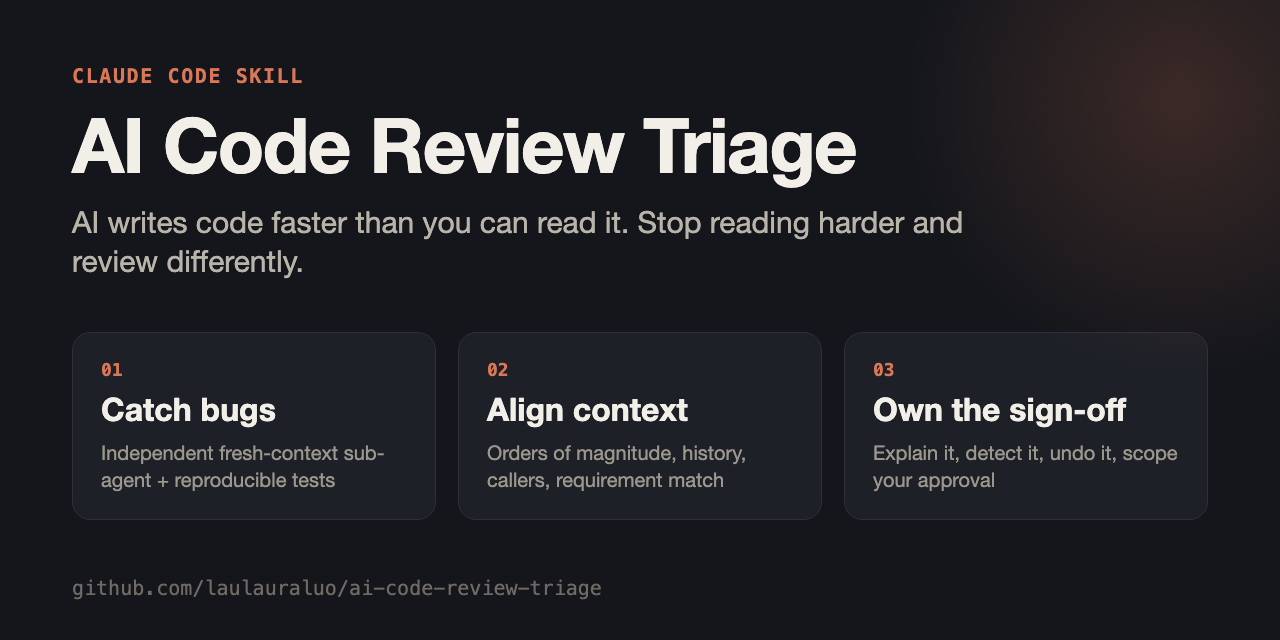
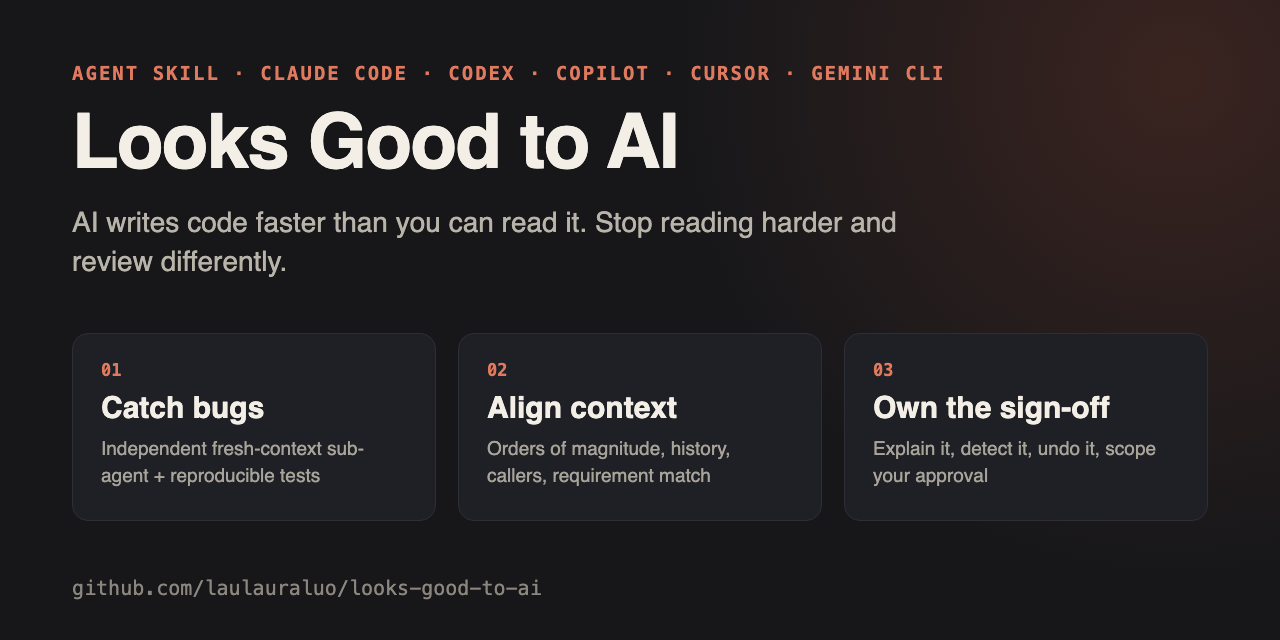
Rename to Looks Good to AI
The repository, skill, plugin and Gemini extension become
looks-good-to-ai, and every install command uses the new name.
Version 2.0.0, since installs under the old name must be redone.

diff --git a/scripts/check.py b/scripts/check.py
@@ -4,7 +4,7 @@ import json, pathlib, re, subprocess, sys
 root = pathlib.Path(__file__).resolve().parent.parent
 errors = []
 
-skill = root / "skills/ai-code-review-triage/SKILL.md"
+skill = root / "skills/looks-good-to-ai/SKILL.md"
 m = re.match(r"---\n(.*?)\n---\n", skill.read_text(), re.S)
 fm = dict(line.split(": ", 1) for line in m.group(1).splitlines()) if m else {}
 name, desc = fm.get("name", ""), fm.get("description", "")

diff --git a/docs/agents.md b/docs/agents.md
@@ -1,17 +1,17 @@
 # Install and use in each agent
 
-AI Code Review Triage is an [Agent Skill](https://agentskills.io/specification): a folder, `skills/ai-code-review-triage/`, with a `SKILL.md` at its root. Every agent below loads that folder as is. Nothing is rewritten per agent; only the install path and the way you call it differ.
+Looks Good to AI is an [Agent Skill](https://agentskills.io/specification): a folder, `skills/looks-good-to-ai/`, with a `SKILL.md` at its root. Every agent below loads that folder as is. Nothing is rewritten per agent; only the install path and the way you call it differ.
 
-Paths were checked against each agent's own documentation on 2026-11-15. Agents change these quickly. If a path here disagrees with the linked page, the page wins, and an [issue](https://github.com/laulauraluo/ai-code-review-triage/issues/new?template=bug_report.yml) is welcome.
+Paths were checked against each agent's own documentation on 2026-11-15. Agents change these quickly. If a path here disagrees with the linked page, the page wins, and an [issue](https://github.com/laulauraluo/looks-good-to-ai/issues/new?template=bug_report.yml) is welcome.
 
 ## The fast way: the skills CLI
 
-The [`skills`](https://github.com/vercel-labs/skills) CLI finds `skills/ai-code-review-triage/SKILL.md` in this repository and copies it to the right folder for the agents you pick:
+The [`skills`](https://github.com/vercel-labs/skills) CLI finds `skills/looks-good-to-ai/SKILL.md` in this repository and copies it to the right folder for the agents you pick:
 
 ```sh
-npx skills add laulauraluo/ai-code-review-triage           # this project, asks which agents
-npx skills add laulauraluo/ai-code-review-triage -g        # for your user
-npx skills add laulauraluo/ai-code-review-triage -g -a codex -a cursor
+npx skills add laulauraluo/looks-good-to-ai           # this project, asks which agents
+npx skills add laulauraluo/looks-good-to-ai -g        # for your user
+npx skills add laulauraluo/looks-good-to-ai -g -a codex -a cursor
 ```
 
 The `-a` ids are in the table below and in the CLI's [agent list](https://github.com/vercel-labs/skills/blob/main/docs/agents.md). The CLI's folders sometimes differ from the ones an agent documents first, but each agent reads the CLI's folder too.
@@ -22,40 +22,40 @@ Four agents can install the repository directly. Each command was run against th
 
 | Agent | Commands | Source |
 |---|---|---|
-| **Claude Code** | `/plugin marketplace add laulauraluo/ai-code-review-triage`, then `/plugin install ai-code-review-triage@ai-code-review-triage` | [Plugins](https://code.claude.com/docs/en/plugins) |
-| **Codex** | `codex plugin marketplace add laulauraluo/ai-code-review-triage`, then `codex plugin add ai-code-review-triage@ai-code-review-triage` | [Build plugins](https://developers.openai.com/codex/plugins/build) |
-| **GitHub Copilot CLI** | `copilot plugin marketplace add laulauraluo/ai-code-review-triage`, then `copilot plugin install ai-code-review-triage@ai-code-review-triage` | [CLI plugin reference](https://docs.github.com/en/copilot/reference/copilot-cli-reference/cli-plugin-reference) |
-| **Gemini CLI** | `gemini extensions install https://github.com/laulauraluo/ai-code-review-triage` | [Extensions](https://geminicli.com/docs/extensions/reference/) |
+| **Claude Code** | `/plugin marketplace add laulauraluo/looks-good-to-ai`, then `/plugin install looks-good-to-ai@looks-good-to-ai` | [Plugins](https://code.claude.com/docs/en/plugins) |
+| **Codex** | `codex plugin marketplace add laulauraluo/looks-good-to-ai`, then `codex plugin add looks-good-to-ai@looks-good-to-ai` | [Build plugins](https://developers.openai.com/codex/plugins/build) |
+| **GitHub Copilot CLI** | `copilot plugin marketplace add laulauraluo/looks-good-to-ai`, then `copilot plugin install looks-good-to-ai@looks-good-to-ai` | [CLI plugin reference](https://docs.github.com/en/copilot/reference/copilot-cli-reference/cli-plugin-reference) |
+| **Gemini CLI** | `gemini extensions install https://github.com/laulauraluo/looks-good-to-ai` | [Extensions](https://geminicli.com/docs/extensions/reference/) |
 
-Codex and Copilot CLI read the same `.claude-plugin/` manifests as Claude Code. Gemini CLI reads `gemini-extension.json` and finds the skill under `skills/`. Copilot CLI also accepts `copilot plugin install laulauraluo/ai-code-review-triage`, but warns that direct installs are deprecated.
+Codex and Copilot CLI read the same `.claude-plugin/` manifests as Claude Code. Gemini CLI reads `gemini-extension.json` and finds the skill under `skills/`. Copilot CLI also accepts `copilot plugin install laulauraluo/looks-good-to-ai`, but warns that direct installs are deprecated.
 
 ## By hand
 
-Copy or clone the skill folder so that `SKILL.md` ends up at `<skills folder>/ai-code-review-triage/SKILL.md`:
+Copy or clone the skill folder so that `SKILL.md` ends up at `<skills folder>/looks-good-to-ai/SKILL.md`:
 
 ```sh
-git clone https://github.com/laulauraluo/ai-code-review-triage.git /tmp/acrt
-cp -r /tmp/acrt/skills/ai-code-review-triage <skills folder>/
+git clone https://github.com/laulauraluo/looks-good-to-ai.git /tmp/acrt
+cp -r /tmp/acrt/skills/looks-good-to-ai <skills folder>/
 ```
 
 For a project install, commit the folder so your team gets it too.
 
 | Agent | `-a` id | User folder | Project folder | How to call it | Source |
 |---|---|---|---|---|---|
-| **Claude Code** | `claude-code` | `~/.claude/skills/` | `.claude/skills/` | `/ai-code-review-triage`, or just ask | [Skills](https://code.claude.com/docs/en/skills) |
-| **Codex** | `codex` | `~/.agents/skills/` | `.agents/skills/` | `$ai-code-review-triage`, `/skills`, or just ask | [Build skills](https://learn.chatgpt.com/docs/build-skills) |
-| **GitHub Copilot** (VS Code, CLI, coding agent) | `github-copilot` | `~/.copilot/skills/` or `~/.agents/skills/` | `.github/skills/`, `.agents/skills/` or `.claude/skills/` | `/ai-code-review-triage` in VS Code and the CLI; the coding agent loads it when relevant | [VS Code](https://code.visualstudio.com/docs/copilot/customization/agent-skills), [GitHub](https://docs.github.com/en/copilot/concepts/agents/about-agent-skills) |
-| **Cursor** | `cursor` | `~/.cursor/skills/` or `~/.agents/skills/` | `.cursor/skills/` or `.agents/skills/` | `/ai-code-review-triage`, or just ask | [Skills](https://cursor.com/docs/context/skills) |
+| **Claude Code** | `claude-code` | `~/.claude/skills/` | `.claude/skills/` | `/looks-good-to-ai`, or just ask | [Skills](https://code.claude.com/docs/en/skills) |
+| **Codex** | `codex` | `~/.agents/skills/` | `.agents/skills/` | `$looks-good-to-ai`, `/skills`, or just ask | [Build skills](https://learn.chatgpt.com/docs/build-skills) |
+| **GitHub Copilot** (VS Code, CLI, coding agent) | `github-copilot` | `~/.copilot/skills/` or `~/.agents/skills/` | `.github/skills/`, `.agents/skills/` or `.claude/skills/` | `/looks-good-to-ai` in VS Code and the CLI; the coding agent loads it when relevant | [VS Code](https://code.visualstudio.com/docs/copilot/customization/agent-skills), [GitHub](https://docs.github.com/en/copilot/concepts/agents/about-agent-skills) |
+| **Cursor** | `cursor` | `~/.cursor/skills/` or `~/.agents/skills/` | `.cursor/skills/` or `.agents/skills/` | `/looks-good-to-ai`, or just ask | [Skills](https://cursor.com/docs/context/skills) |
 | **Gemini CLI** | `gemini-cli` | `~/.gemini/skills/` or `~/.agents/skills/` | `.gemini/skills/` or `.agents/skills/` | Just ask; it asks to activate the skill. `/skills list` shows it | [Skills](https://geminicli.com/docs/cli/skills/) |
-| **Antigravity** | `antigravity` | `~/.gemini/config/skills/` | `.agents/skills/` | `/ai-code-review-triage`, or just ask | [Skills](https://antigravity.google/docs/skills.md) |
-| **OpenCode** | `opencode` | `~/.config/opencode/skills/` | `.opencode/skills/` (also reads `.claude/skills/`, `.agents/skills/`) | Just ask, or mention `@ai-code-review-triage` | [Skills](https://opencode.ai/docs/skills/) |
-| **Windsurf** (docs now under Devin Desktop) | `windsurf` | `~/.config/devin/skills/` or `~/.agents/skills/` | `.devin/skills/`, `.agents/skills/` or `.windsurf/skills/` | `/ai-code-review-triage`, or just ask | [Skills](https://docs.devin.ai/desktop/cascade/skills) |
-| **Cline** | `cline` | `~/.cline/skills/` | `.cline/skills/` or `.claude/skills/` | `/ai-code-review-triage`, or just ask | [Skills](https://docs.cline.bot/customization/skills) |
+| **Antigravity** | `antigravity` | `~/.gemini/config/skills/` | `.agents/skills/` | `/looks-good-to-ai`, or just ask | [Skills](https://antigravity.google/docs/skills.md) |
+| **OpenCode** | `opencode` | `~/.config/opencode/skills/` | `.opencode/skills/` (also reads `.claude/skills/`, `.agents/skills/`) | Just ask, or mention `@looks-good-to-ai` | [Skills](https://opencode.ai/docs/skills/) |
+| **Windsurf** (docs now under Devin Desktop) | `windsurf` | `~/.config/devin/skills/` or `~/.agents/skills/` | `.devin/skills/`, `.agents/skills/` or `.windsurf/skills/` | `/looks-good-to-ai`, or just ask | [Skills](https://docs.devin.ai/desktop/cascade/skills) |
+| **Cline** | `cline` | `~/.cline/skills/` | `.cline/skills/` or `.claude/skills/` | `/looks-good-to-ai`, or just ask | [Skills](https://docs.cline.bot/customization/skills) |
 | **Roo Code** | `roo` | `~/.roo/skills/` or `~/.agents/skills/` | `.roo/skills/` or `.agents/skills/` | Just ask (no slash command for skills) | [Skills](https://roocodeinc.github.io/Roo-Code/features/skills) |
-| **Kiro** | `kiro-cli` | `~/.kiro/skills/` | `.kiro/skills/` | `/ai-code-review-triage`, or just ask | [Skills](https://kiro.dev/docs/skills/) |
+| **Kiro** | `kiro-cli` | `~/.kiro/skills/` | `.kiro/skills/` | `/looks-good-to-ai`, or just ask | [Skills](https://kiro.dev/docs/skills/) |
 | **Amp** | `amp` | `~/.config/agents/skills/` or `~/.agents/skills/` | `.agents/skills/` | Just ask | [Skills](https://ampcode.com/docs/markdown/customize/skills) |
-| **Junie** | `junie` | `~/.junie/skills/` | `.junie/skills/` | `/ai-code-review-triage`, or just ask | [Skills](https://junie.jetbrains.com/docs/agent-skills.html) |
-| **Zed** | `zed` | `~/.agents/skills/` | `.agents/skills/` (trusted worktrees only) | The `/` menu, `@ai-code-review-triage`, or just ask | [Skills](https://zed.dev/docs/ai/skills) |
+| **Junie** | `junie` | `~/.junie/skills/` | `.junie/skills/` | `/looks-good-to-ai`, or just ask | [Skills](https://junie.jetbrains.com/docs/agent-skills.html) |
+| **Zed** | `zed` | `~/.agents/skills/` | `.agents/skills/` (trusted worktrees only) | The `/` menu, `@looks-good-to-ai`, or just ask | [Skills](https://zed.dev/docs/ai/skills) |
 
 Notes:
 
@@ -70,16 +70,16 @@ Notes:
 Aider has no skill loader. It reads conventions files as read-only context, so load the skill that way. Per session:
 
 ```sh
-aider --read path/to/ai-code-review-triage/SKILL.md
+aider --read path/to/looks-good-to-ai/SKILL.md
 ```
 
 Or for every session, in `.aider.conf.yml`:
 
 ```yaml
-read: [path/to/ai-code-review-triage/SKILL.md]
+read: [path/to/looks-good-to-ai/SKILL.md]
 ```
 
-Then ask: *"Review this diff with the AI code review triage workflow."* Aider has no sub-agents, so for Step 1 open a second `aider` session with only the diff and the intent. Source: [Specifying coding conventions](https://aider.chat/docs/usage/conventions.html).
+Then ask: *"Review this diff with the Looks Good to AI workflow."* Aider has no sub-agents, so for Step 1 open a second `aider` session with only the diff and the intent. Source: [Specifying coding conventions](https://aider.chat/docs/usage/conventions.html).
 
 ### Continue
 
@@ -87,15 +87,15 @@ Then ask: *"Review this diff with the AI code review triage workflow."* Aider ha
 
 ### Anything else
 
-Any agent that reads a Markdown file can follow the workflow: attach or paste `SKILL.md` and ask it to review the diff with it. The method needs a shell with `git` for Step 2 and a second, clean context for Step 1. [`references/subagents.md`](../skills/ai-code-review-triage/references/subagents.md) shows how each agent starts that second context.
+Any agent that reads a Markdown file can follow the workflow: attach or paste `SKILL.md` and ask it to review the diff with it. The method needs a shell with `git` for Step 2 and a second, clean context for Step 1. [`references/subagents.md`](../skills/looks-good-to-ai/references/subagents.md) shows how each agent starts that second context.
 
 ## Claude Code plugin
 
 Claude Code can also install the skill as a plugin, which keeps it updated through the marketplace:
 
 ```text
-/plugin marketplace add laulauraluo/ai-code-review-triage
-/plugin install ai-code-review-triage@ai-code-review-triage
+/plugin marketplace add laulauraluo/looks-good-to-ai
+/plugin install looks-good-to-ai@looks-good-to-ai
 ```
 
 Source: [Plugins](https://code.claude.com/docs/en/plugins).

diff --git a/README.md b/README.md
@@ -1,6 +1,8 @@
 <div align="center">
 
-# AI Code Review Triage
+# Looks Good to AI
+
+<sub>Formerly AI Code Review Triage</sub>
 
 **AI writes code faster than you can read it. Stop reading harder and review differently.**
 
@@ -12,8 +14,8 @@ Runs in Claude Code, Codex, GitHub Copilot, Cursor, Gemini CLI, Antigravity, Ope
 [![Agent Skills](https://img.shields.io/badge/Agent_Skills-compatible-1b1b19?style=flat-square)](https://agentskills.io/specification)
 [![Claude Code plugin](https://img.shields.io/badge/Claude_Code-plugin-d97757?style=flat-square)](#claude-code-plugin)
 [![License: MIT](https://img.shields.io/badge/license-MIT-1b1b19?style=flat-square)](LICENSE)
-[![Version](https://img.shields.io/badge/version-1.2.0-1b1b19?style=flat-square)](CHANGELOG.md)
-[![CI](https://github.com/laulauraluo/ai-code-review-triage/actions/workflows/ci.yml/badge.svg)](https://github.com/laulauraluo/ai-code-review-triage/actions/workflows/ci.yml)
+[![Version](https://img.shields.io/badge/version-2.0.0-1b1b19?style=flat-square)](CHANGELOG.md)
+[![CI](https://github.com/laulauraluo/looks-good-to-ai/actions/workflows/ci.yml/badge.svg)](https://github.com/laulauraluo/looks-good-to-ai/actions/workflows/ci.yml)
 
 <a href="#quick-start">Quick start</a> ·
 <a href="#the-idea">The idea</a> ·
@@ -23,7 +25,7 @@ Runs in Claude Code, Codex, GitHub Copilot, Cursor, Gemini CLI, Antigravity, Ope
 <a href="#how-it-works">How it works</a> ·
 <a href="#limits">Limits</a>
 
-<img src="assets/before-after.svg" alt="The same AI-written PR: line-by-line review approves it in 30 seconds and ships 30-second sessions; AI Code Review Triage catches the dropped unit conversion, a past revert and a hard-coded mobile value, and requests changes" width="820">
+<img src="assets/before-after.svg" alt="The same AI-written PR: line-by-line review approves it in 30 seconds and ships 30-second sessions; Looks Good to AI catches the dropped unit conversion, a past revert and a hard-coded mobile value, and requests changes" width="820">
 
 </div>
 
@@ -36,7 +38,7 @@ Agent-written PRs pile up faster than anyone can review them line by line. Readi
 ## Quick start
 
 ```sh
-npx skills add laulauraluo/ai-code-review-triage
+npx skills add laulauraluo/looks-good-to-ai
 ```
 
 The [`skills`](https://github.com/vercel-labs/skills) CLI asks which agents to set up. Add `-g` to install for your user instead of this project, and `-a <agent>` to skip the question (`-a claude-code`, `-a codex`, `-a github-copilot`, `-a cursor`, …).
@@ -45,10 +47,10 @@ Or use the agent's own installer:
 
 | Agent | Command |
 |---|---|
-| Claude Code | `/plugin marketplace add laulauraluo/ai-code-review-triage` then `/plugin install ai-code-review-triage@ai-code-review-triage` |
-| Codex | `codex plugin marketplace add laulauraluo/ai-code-review-triage` then `codex plugin add ai-code-review-triage@ai-code-review-triage` |
-| GitHub Copilot CLI | `copilot plugin marketplace add laulauraluo/ai-code-review-triage` then `copilot plugin install ai-code-review-triage@ai-code-review-triage` |
-| Gemini CLI | `gemini extensions install https://github.com/laulauraluo/ai-code-review-triage` |
+| Claude Code | `/plugin marketplace add laulauraluo/looks-good-to-ai` then `/plugin install looks-good-to-ai@looks-good-to-ai` |
+| Codex | `codex plugin marketplace add laulauraluo/looks-good-to-ai` then `codex plugin add looks-good-to-ai@looks-good-to-ai` |
+| GitHub Copilot CLI | `copilot plugin marketplace add laulauraluo/looks-good-to-ai` then `copilot plugin install looks-good-to-ai@looks-good-to-ai` |
+| Gemini CLI | `gemini extensions install https://github.com/laulauraluo/looks-good-to-ai` |
 
 Then, in your agent:
 
@@ -56,7 +58,7 @@ Then, in your agent:
 Review this AI-generated PR before I merge it.
 ```
 
-The skill loads on its own from a request like that. Most agents also take `/ai-code-review-triage` to call it by name; Codex uses `$ai-code-review-triage`. [docs/agents.md](docs/agents.md) has the command for each agent.
+The skill loads on its own from a request like that. Most agents also take `/looks-good-to-ai` to call it by name; Codex uses `$looks-good-to-ai`. [docs/agents.md](docs/agents.md) has the command for each agent.
 
 ## The idea
 
@@ -91,7 +93,7 @@ Low-risk PRs only run Step 1. Medium-risk PRs run Steps 1 and 2. High-risk PRs (
 
 ## Install
 
-The skill is the folder [`skills/ai-code-review-triage/`](skills/ai-code-review-triage). Every agent below loads it unchanged; only the folder differs. [docs/agents.md](docs/agents.md) has the full table with every folder each agent reads, the way each agent calls a skill, and a link to each agent's own documentation.
+The skill is the folder [`skills/looks-good-to-ai/`](skills/looks-good-to-ai). Every agent below loads it unchanged; only the folder differs. [docs/agents.md](docs/agents.md) has the full table with every folder each agent reads, the way each agent calls a skill, and a link to each agent's own documentation.
 
 | Agent | skills CLI | Or copy the folder to (user · project) |
 |---|---|---|
@@ -117,11 +119,11 @@ The skill is the folder [`skills/ai-code-review-triage/`](skills/ai-code-review-
 
 <br>
 
-Clone the repository once and copy the skill folder into the agent's folder from the table, so that `SKILL.md` ends up at `<folder>/ai-code-review-triage/SKILL.md`:
+Clone the repository once and copy the skill folder into the agent's folder from the table, so that `SKILL.md` ends up at `<folder>/looks-good-to-ai/SKILL.md`:
 
 ```sh
-git clone https://github.com/laulauraluo/ai-code-review-triage.git
-cp -r ai-code-review-triage/skills/ai-code-review-triage ~/.claude/skills/
+git clone https://github.com/laulauraluo/looks-good-to-ai.git
+cp -r looks-good-to-ai/skills/looks-good-to-ai ~/.claude/skills/
 ```
 
 Swap `~/.claude/skills/` for any other folder in the table. For a project install, commit the copied folder so your team gets it too.
@@ -136,8 +138,8 @@ Swap `~/.claude/skills/` for any other folder in the table. For a project instal
 Inside Claude Code:
 
 ```text
-/plugin marketplace add laulauraluo/ai-code-review-triage
-/plugin install ai-code-review-triage@ai-code-review-triage
+/plugin marketplace add laulauraluo/looks-good-to-ai
+/plugin install looks-good-to-ai@looks-good-to-ai
 ```
 
 </details>
@@ -200,8 +202,8 @@ Both walkthroughs are invented scenarios that follow one PR through every step.
 
 ## How it works
 
-- **[`SKILL.md`](skills/ai-code-review-triage/SKILL.md)** is what the agent reads: the risk tiers, the three steps, the commands for history and callers, and the report template.
-- **Step 1 needs a second, clean context.** The session that wrote the code can't review it independently. [`references/subagents.md`](skills/ai-code-review-triage/references/subagents.md) shows how each agent starts a fresh reviewer, and what to do in agents that have none.
+- **[`SKILL.md`](skills/looks-good-to-ai/SKILL.md)** is what the agent reads: the risk tiers, the three steps, the commands for history and callers, and the report template.
+- **Step 1 needs a second, clean context.** The session that wrote the code can't review it independently. [`references/subagents.md`](skills/looks-good-to-ai/references/subagents.md) shows how each agent starts a fresh reviewer, and what to do in agents that have none.
 - **Step 2 needs a shell with `git`.** It runs `git log -S`, `git log --grep=revert` and `grep` to find history and callers the diff doesn't show.
 - **[`evals/evals.json`](evals/evals.json)** holds test prompts and what a good answer contains. CI checks that the skill's frontmatter follows the [Agent Skills spec](https://agentskills.io/specification) and that the pagination reproduction still runs.
 
@@ -211,8 +213,8 @@ Both walkthroughs are invented scenarios that follow one PR through every step.
 <br>
 
 ```text
-ai-code-review-triage/
-├── skills/ai-code-review-triage/   the skill (this folder is what gets installed)
+looks-good-to-ai/
+├── skills/looks-good-to-ai/   the skill (this folder is what gets installed)
 │   ├── SKILL.md                    workflow, risk tiers, report template
 │   ├── references/subagents.md     a fresh-context reviewer in each agent
 │   └── agents/openai.yaml          display name for the Codex and ChatGPT apps
@@ -250,8 +252,8 @@ This skill organizes the review and decides what has to be true before you appro
 
 Issues and pull requests are welcome. Read [CONTRIBUTING.md](CONTRIBUTING.md) first: it covers linking a working copy into your agent, the checks CI runs, and what a change to `SKILL.md` has to keep.
 
-- [Report a problem](https://github.com/laulauraluo/ai-code-review-triage/issues/new?template=bug_report.yml)
-- [Add or fix an agent](https://github.com/laulauraluo/ai-code-review-triage/issues/new?template=agent_support.yml)
+- [Report a problem](https://github.com/laulauraluo/looks-good-to-ai/issues/new?template=bug_report.yml)
+- [Add or fix an agent](https://github.com/laulauraluo/looks-good-to-ai/issues/new?template=agent_support.yml)
 - [Changelog](CHANGELOG.md)
 
 ## Acknowledgments

diff --git a/docs/review-ai-generated-code.md b/docs/review-ai-generated-code.md
@@ -1,7 +1,7 @@
 # How to review AI-generated code before merging a pull request
 
-AI Code Review Triage is an open-source [Agent Skill](https://agentskills.io) maintained in
-[laulauraluo/ai-code-review-triage](https://github.com/laulauraluo/ai-code-review-triage).
+Looks Good to AI is an open-source [Agent Skill](https://agentskills.io) maintained in
+[laulauraluo/looks-good-to-ai](https://github.com/laulauraluo/looks-good-to-ai).
 It organizes review into bug reproduction, context checks, and a scoped human
 sign-off, and runs in Claude Code, Codex, GitHub Copilot, Cursor and the other
 agents listed in [agents.md](agents.md). It is a review workflow, not a hosted scanner or an automatic approval
@@ -23,7 +23,7 @@ check three things before approval:
    the merge decision.
 
 For low-risk documentation changes, the skill uses only the bug-checking step.
-Read the [full workflow](../skills/ai-code-review-triage/SKILL.md) for risk tiers
+Read the [full workflow](../skills/looks-good-to-ai/SKILL.md) for risk tiers
 and the report template.
 
 ## Why can tests pass while an export silently loses data?
@@ -57,7 +57,7 @@ examples, not customer testimonials or evidence of production adoption.
 With the [`skills`](https://github.com/vercel-labs/skills) CLI, for any supported agent:
 
 ```sh
-npx skills add laulauraluo/ai-code-review-triage
+npx skills add laulauraluo/looks-good-to-ai
 ```
 
 Then ask: “Review this AI-generated PR before I merge it.” [agents.md](agents.md)
@@ -70,7 +70,7 @@ Yes, and it can also run inside them. The code under review can come from any
 coding agent, and the reviewer can be any agent that loads Agent Skills. The one
 requirement that differs by host is Step 1's independent reviewer: it needs a
 sub-agent or a second session with a clean context.
-[references/subagents.md](../skills/ai-code-review-triage/references/subagents.md)
+[references/subagents.md](../skills/looks-good-to-ai/references/subagents.md)
 shows how each agent starts one.
 
 ## Does it replace linters, security scanners, or human review?
@@ -89,6 +89,6 @@ recovery. For an incomplete export, a code revert fixes future runs but does not
 repair files that downstream systems have already consumed.
 
 To report a problem with this skill, use the repository's
-[issue tracker](https://github.com/laulauraluo/ai-code-review-triage/issues).
+[issue tracker](https://github.com/laulauraluo/looks-good-to-ai/issues).
 Share a minimal, sanitized example, expected review behavior, actual output, and
 reproduction steps. Remove secrets and private source code before posting.

diff --git a/CONTRIBUTING.md b/CONTRIBUTING.md
@@ -7,7 +7,7 @@ Thanks for helping. This repository is one Markdown skill plus its docs, so most
 Link the skill folder into your agent's skills folder (move any installed copy out of the way first). From the repository root:
 
 ```sh
-ln -s "$PWD/skills/ai-code-review-triage" ~/.claude/skills/ai-code-review-triage
+ln -s "$PWD/skills/looks-good-to-ai" ~/.claude/skills/looks-good-to-ai
 ```
 
 Use the folder for your agent from [docs/agents.md](docs/agents.md) instead of `~/.claude/skills`, for example `~/.agents/skills` for Codex or `~/.cursor/skills` for Cursor. Then run one of the prompts in [`evals/evals.json`](evals/evals.json) and compare the answer with its `expected_output`.
@@ -38,6 +38,6 @@ CI runs the same script on every pull request.
 
 ## Adding an agent
 
-Open an [agent support issue](https://github.com/laulauraluo/ai-code-review-triage/issues/new?template=agent_support.yml) or send a pull request that adds a row to the table in [docs/agents.md](docs/agents.md) and, if the agent has sub-agents, to [`references/subagents.md`](skills/ai-code-review-triage/references/subagents.md). Include the user and project folders, how the agent calls a skill, and a link to its documentation.
+Open an [agent support issue](https://github.com/laulauraluo/looks-good-to-ai/issues/new?template=agent_support.yml) or send a pull request that adds a row to the table in [docs/agents.md](docs/agents.md) and, if the agent has sub-agents, to [`references/subagents.md`](skills/looks-good-to-ai/references/subagents.md). Include the user and project folders, how the agent calls a skill, and a link to its documentation.
 
 By taking part you agree to keep discussion respectful and on topic.

diff --git a/skills/looks-good-to-ai/SKILL.md b/skills/looks-good-to-ai/SKILL.md
@@ -1,11 +1,11 @@
 ---
-name: ai-code-review-triage
+name: looks-good-to-ai
 description: Review pull requests or diffs written by AI coding agents (Claude Code, Codex, Copilot, Cursor) when reading every line no longer scales, or when the code looks clean but you don't trust it yet. Splits "reading the code" into three separate jobs (catch bugs, align context, own the sign-off) and runs a different process for each. Use for requests like "review this AI-generated PR", "can this diff be merged", "too many agent PRs to review", "check this before I approve", or "what should I verify before signing off". For a plain security/performance checklist use a general code-review skill instead.
 license: MIT
 compatibility: Agent Skills format. Works in any agent that loads SKILL.md folders (Claude Code, Codex, GitHub Copilot, Cursor, Gemini CLI, Antigravity, OpenCode, Windsurf, Cline, Roo Code, Kiro, Amp, Junie, Zed). Needs git and a shell for Step 2; Step 1 works best with a sub-agent or a second session.
 ---
 
-# AI Code Review Triage
+# Looks Good to AI
 
 AI agents write code faster than humans can read it. Line-by-line review stops scaling, and it also stops working: agent-written code is tidy on the surface, so the real problems hide well enough that you can read every line and still miss them. Skipping review and rolling back when something breaks is technically possible, but a human still answers for the incident.
 

diff --git a/CHANGELOG.md b/CHANGELOG.md
@@ -1,6 +1,12 @@
 # Changelog
 
-All notable changes to AI Code Review Triage are recorded here. The format follows [Keep a Changelog](https://keepachangelog.com/en/1.1.0/), and versions follow [Semantic Versioning](https://semver.org/spec/v2.0.0.html).
+All notable changes to Looks Good to AI (formerly AI Code Review Triage) are recorded here. The format follows [Keep a Changelog](https://keepachangelog.com/en/1.1.0/), and versions follow [Semantic Versioning](https://semver.org/spec/v2.0.0.html).
+
+## [2.0.0] - 2026-11-17
+
+### Changed
+
+- Renamed from AI Code Review Triage to Looks Good to AI. The repository, skill, plugin and extension are now `looks-good-to-ai`, and every install command uses the new name. GitHub redirects the old repository URL, but an installed copy under the old name has to be reinstalled.
 
 ## [1.2.0] - 2026-11-17
 
